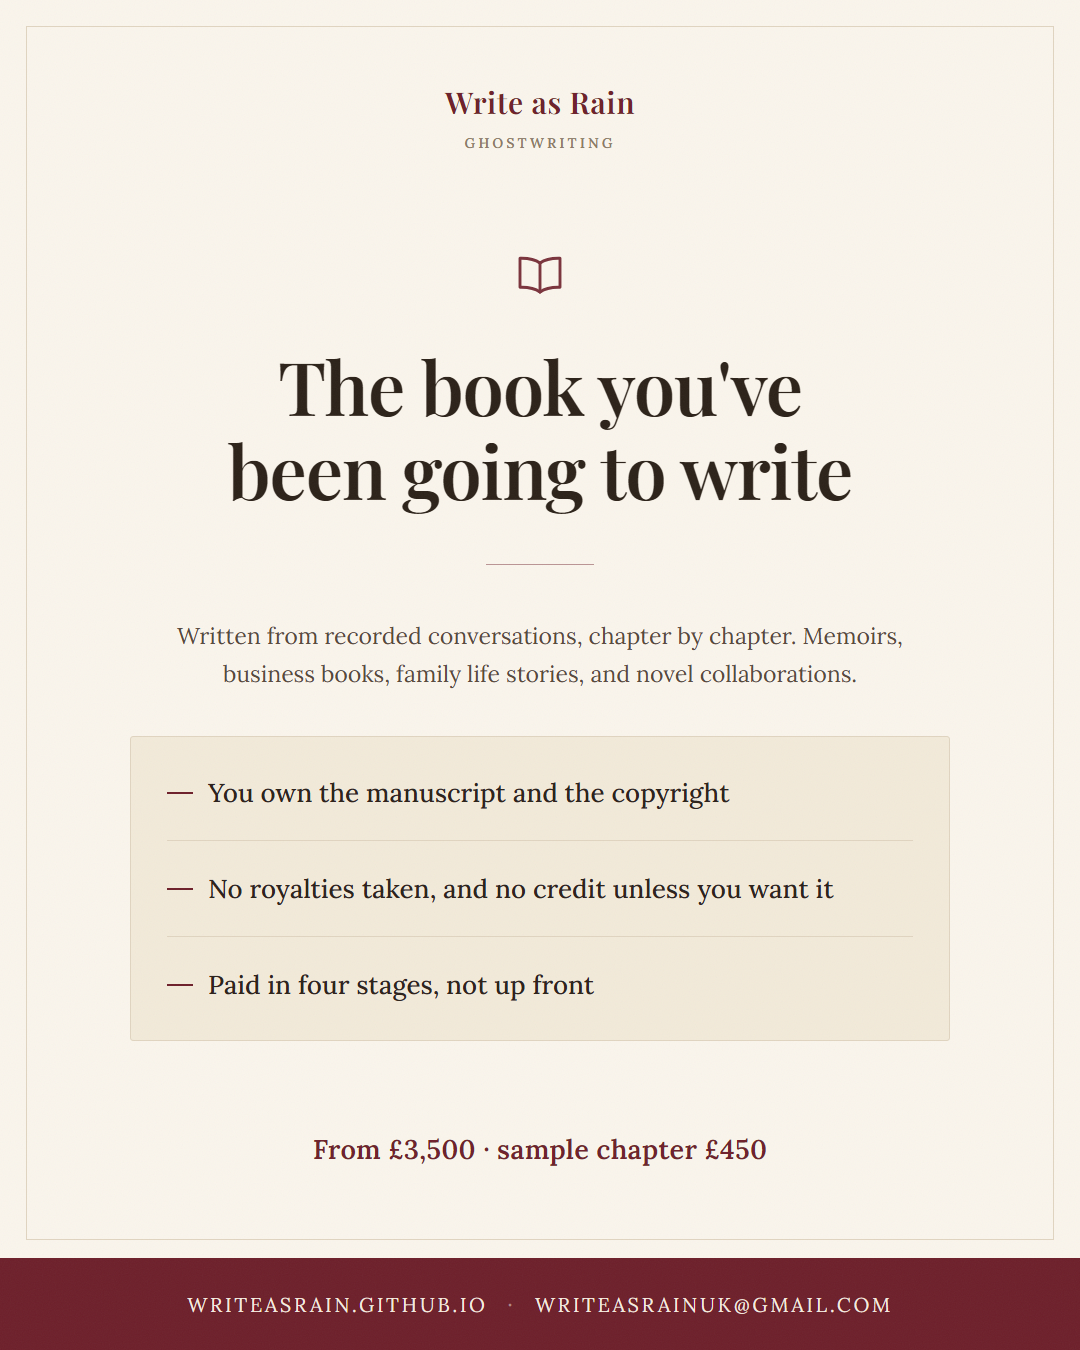
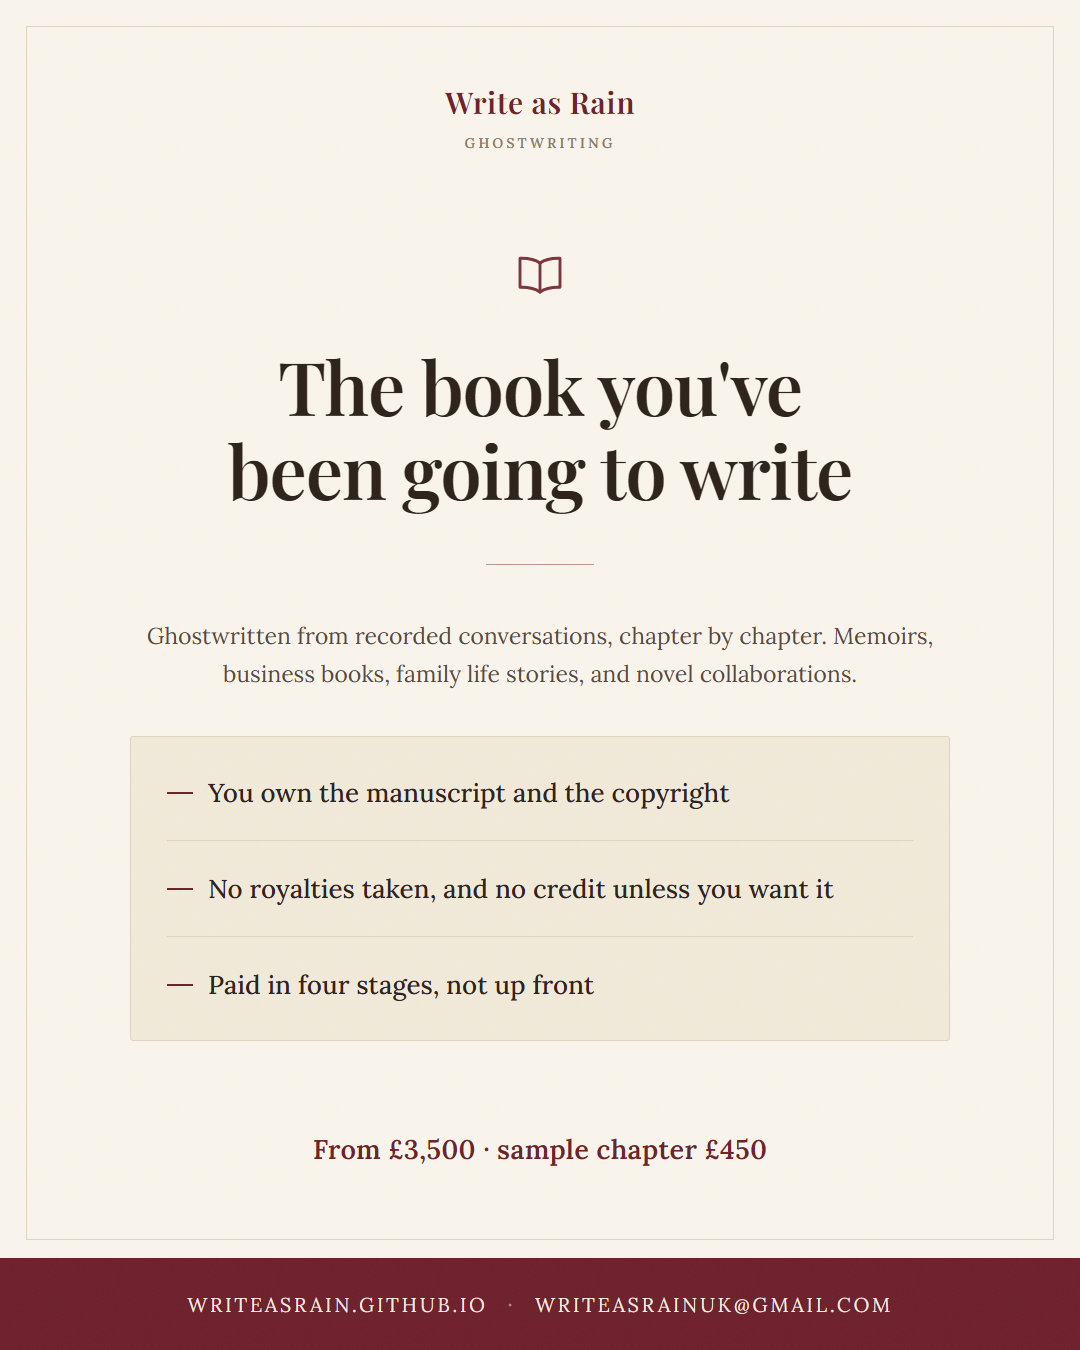
Update social posts

Changed region(s): [[0.1528, 0.4667, 0.8556, 0.4978]]

diff --git a/social/14-instagram-grant-writing.html b/social/14-instagram-grant-writing.html
@@ -237,7 +237,7 @@
 
     <div class="rule-short"></div>
 
-    <p class="body">Small charities and SMEs without a fundraising team. Answered point by point against the funder's own guidance, because that's how it gets marked.</p>
+    <p class="body">Grants and tenders for small charities and SMEs without a fundraising team. Answered point by point against the funder's own guidance, because that's how it gets marked.</p>
 
     <ul class="points">
     <li>A free go/no-go verdict before you spend anything</li>

diff --git a/social/9-instagram-memoir.html b/social/9-instagram-memoir.html
@@ -237,7 +237,7 @@
 
     <div class="rule-short"></div>
 
-    <p class="body">Memoir editing for a book you're publishing, life story writing for one the family keeps. They are different jobs and they get priced differently.</p>
+    <p class="body">Memoir editing for a book you're publishing, ghostwriting for a life story the family keeps. They are different jobs and they get priced differently.</p>
 
     <ul class="points">
     <li>Structure that carries a reader who never knew you</li>

diff --git a/social/3-instagram-free-sample-edit.html b/social/3-instagram-free-sample-edit.html
@@ -237,7 +237,7 @@
 
     <div class="rule-short"></div>
 
-    <p class="body">I'll edit them properly. Tracked changes, comments, the lot, exactly the way I'd work on the whole manuscript. Then I send them back and you decide.</p>
+    <p class="body">A sample edit, done properly. Tracked changes, comments, the lot, exactly the way I'd work on the whole manuscript. Then I send them back and you decide.</p>
 
     <ul class="points">
     <li>No payment, and no obligation afterwards</li>

diff --git a/social/17-instagram-speeches.html b/social/17-instagram-speeches.html
@@ -237,7 +237,7 @@
 
     <div class="rule-short"></div>
 
-    <p class="body">Wedding, best man, father of the bride, maid of honour, retirement. Written from a conversation, timed to your slot, with the pauses marked.</p>
+    <p class="body">Wedding, best man, father of the bride, maid of honour, retirement. Speeches written from a conversation, timed to your slot, with the pauses marked.</p>
 
     <ul class="points">
     <li>Timed properly, because overrunning is the fear</li>

diff --git a/social/12-instagram-personal-statements.html b/social/12-instagram-personal-statements.html
@@ -237,7 +237,7 @@
 
     <div class="rule-short"></div>
 
-    <p class="body">UCAS, Oxbridge, medicine and dentistry, postgraduate, and US college essays. Your draft, edited and coached – never one written for you.</p>
+    <p class="body">Personal statements for UCAS, Oxbridge, medicine and dentistry, postgraduate, and US college. Your draft, edited and coached – never one written for you.</p>
 
     <ul class="points">
     <li>Reflection that beats a list of placements</li>

diff --git a/social/15-instagram-executive-ghostwriting.html b/social/15-instagram-executive-ghostwriting.html
@@ -237,7 +237,7 @@
 
     <div class="rule-short"></div>
 
-    <p class="body">LinkedIn and newsletters in your voice, built from one recorded conversation a month. Nothing is published without your sign-off.</p>
+    <p class="body">LinkedIn posts and newsletters ghostwritten in your voice, built from one recorded conversation a month. Nothing is published without your sign-off.</p>
 
     <ul class="points">
     <li>No account access needed, ever</li>

diff --git a/social/8-instagram-submission-package.html b/social/8-instagram-submission-package.html
@@ -237,7 +237,7 @@
 
     <div class="rule-short"></div>
 
-    <p class="body">Agents send the same line to everyone. Working out whether it's the book, the query, the synopsis, or the opening chapter is the whole job.</p>
+    <p class="body">Agents send the same line to everyone. A submission has four moving parts, and working out which one is failing is the whole job.</p>
 
     <ul class="points">
     <li>Query letter in UK or US convention</li>

diff --git a/social/4-instagram-book-ghostwriting.html b/social/4-instagram-book-ghostwriting.html
@@ -237,7 +237,7 @@
 
     <div class="rule-short"></div>
 
-    <p class="body">Written from recorded conversations, chapter by chapter. Memoirs, business books, family life stories, and novel collaborations.</p>
+    <p class="body">Ghostwritten from recorded conversations, chapter by chapter. Memoirs, business books, family life stories, and novel collaborations.</p>
 
     <ul class="points">
     <li>You own the manuscript and the copyright</li>

diff --git a/social/18-instagram-eulogy.html b/social/18-instagram-eulogy.html
@@ -237,7 +237,7 @@
 
     <div class="rule-short"></div>
 
-    <p class="body">Usually one phone call is enough. You don't need anything written down first, or to know yet what you want to say.</p>
+    <p class="body">A eulogy usually takes one phone call. You don't need anything written down first, or to know yet what you want to say.</p>
 
     <ul class="points">
     <li>Short notice is normal, so say if it's Friday</li>

diff --git a/scripts/build-social.py b/scripts/build-social.py
@@ -67,8 +67,8 @@ POSTS = [
     dict(
         n=3, slug="free-sample-edit", icon="wr-page-pencil", group="Before you pay",
         headline="Send me your\nfirst 1,000 words",
-        body="I'll edit them properly. Tracked changes, comments, the lot, exactly the "
-             "way I'd work on the whole manuscript. Then I send them back and you decide.",
+        body="A sample edit, done properly. Tracked changes, comments, the lot, exactly "
+             "the way I'd work on the whole manuscript. Then I send them back and you decide.",
         points=[
             "No payment, and no obligation afterwards",
             "No follow-up emails if you decide against it",
@@ -80,8 +80,8 @@ POSTS = [
     dict(
         n=4, slug="book-ghostwriting", icon="wr-book-open", group="Ghostwriting",
         headline="The book you've\nbeen going to write",
-        body="Written from recorded conversations, chapter by chapter. Memoirs, business "
-             "books, family life stories, and novel collaborations.",
+        body="Ghostwritten from recorded conversations, chapter by chapter. Memoirs, "
+             "business books, family life stories, and novel collaborations.",
         points=[
             "You own the manuscript and the copyright",
             "No royalties taken, and no credit unless you want it",
@@ -135,8 +135,8 @@ POSTS = [
     dict(
         n=8, slug="submission-package", icon="wr-envelope", group="Books and publishing",
         headline="Form rejections\ndon't tell you\nwhat went wrong",
-        body="Agents send the same line to everyone. Working out whether it's the book, "
-             "the query, the synopsis, or the opening chapter is the whole job.",
+        body="Agents send the same line to everyone. A submission has four moving parts, "
+             "and working out which one is failing is the whole job.",
         points=[
             "Query letter in UK or US convention",
             "One-page synopsis, which is its own dark art",
@@ -148,8 +148,8 @@ POSTS = [
     dict(
         n=9, slug="memoir", icon="wr-books", group="Memoir and life story",
         headline="A life is not\na plot",
-        body="Memoir editing for a book you're publishing, life story writing for one the "
-             "family keeps. They are different jobs and they get priced differently.",
+        body="Memoir editing for a book you're publishing, ghostwriting for a life story "
+             "the family keeps. They are different jobs and they get priced differently.",
         points=[
             "Structure that carries a reader who never knew you",
             "Honest guidance on writing about the living",
@@ -187,8 +187,8 @@ POSTS = [
     dict(
         n=12, slug="personal-statements", icon="wr-plane", group="Applications and careers",
         headline="The statement you wrote,\nmade to work harder",
-        body="UCAS, Oxbridge, medicine and dentistry, postgraduate, and US college essays. "
-             "Your draft, edited and coached – never one written for you.",
+        body="Personal statements for UCAS, Oxbridge, medicine and dentistry, postgraduate, "
+             "and US college. Your draft, edited and coached – never one written for you.",
         points=[
             "Reflection that beats a list of placements",
             "Nothing in it you couldn't defend at interview",
@@ -213,8 +213,9 @@ POSTS = [
     dict(
         n=14, slug="grant-writing", icon="wr-hand-heart", group="Business",
         headline="Bids written the way\nassessors score them",
-        body="Small charities and SMEs without a fundraising team. Answered point by point "
-             "against the funder's own guidance, because that's how it gets marked.",
+        body="Grants and tenders for small charities and SMEs without a fundraising team. "
+             "Answered point by point against the funder's own guidance, because that's "
+             "how it gets marked.",
         points=[
             "A free go/no-go verdict before you spend anything",
             "Never on commission, so the advice stays honest",
@@ -226,8 +227,8 @@ POSTS = [
     dict(
         n=15, slug="executive-ghostwriting", icon="wr-quill", group="Business",
         headline="The posts you keep\nmeaning to write",
-        body="LinkedIn and newsletters in your voice, built from one recorded conversation "
-             "a month. Nothing is published without your sign-off.",
+        body="LinkedIn posts and newsletters ghostwritten in your voice, built from one "
+             "recorded conversation a month. Nothing is published without your sign-off.",
         points=[
             "No account access needed, ever",
             "No credit taken anywhere, it's your name on it",
@@ -252,8 +253,8 @@ POSTS = [
     dict(
         n=17, slug="speeches", icon="wr-mic", group="Occasions",
         headline="You've got the stories.\nFive minutes is\nthe hard part",
-        body="Wedding, best man, father of the bride, maid of honour, retirement. Written "
-             "from a conversation, timed to your slot, with the pauses marked.",
+        body="Wedding, best man, father of the bride, maid of honour, retirement. Speeches "
+             "written from a conversation, timed to your slot, with the pauses marked.",
         points=[
             "Timed properly, because overrunning is the fear",
             "Your material in your phrasing, not a template",
@@ -268,7 +269,7 @@ POSTS = [
     dict(
         n=18, slug="eulogy", icon="wr-candle", group="Eulogies",
         headline="You talk about them.\nI write it",
-        body="Usually one phone call is enough. You don't need anything written down "
+        body="A eulogy usually takes one phone call. You don't need anything written down "
              "first, or to know yet what you want to say.",
         points=[
             "Short notice is normal, so say if it's Friday",
